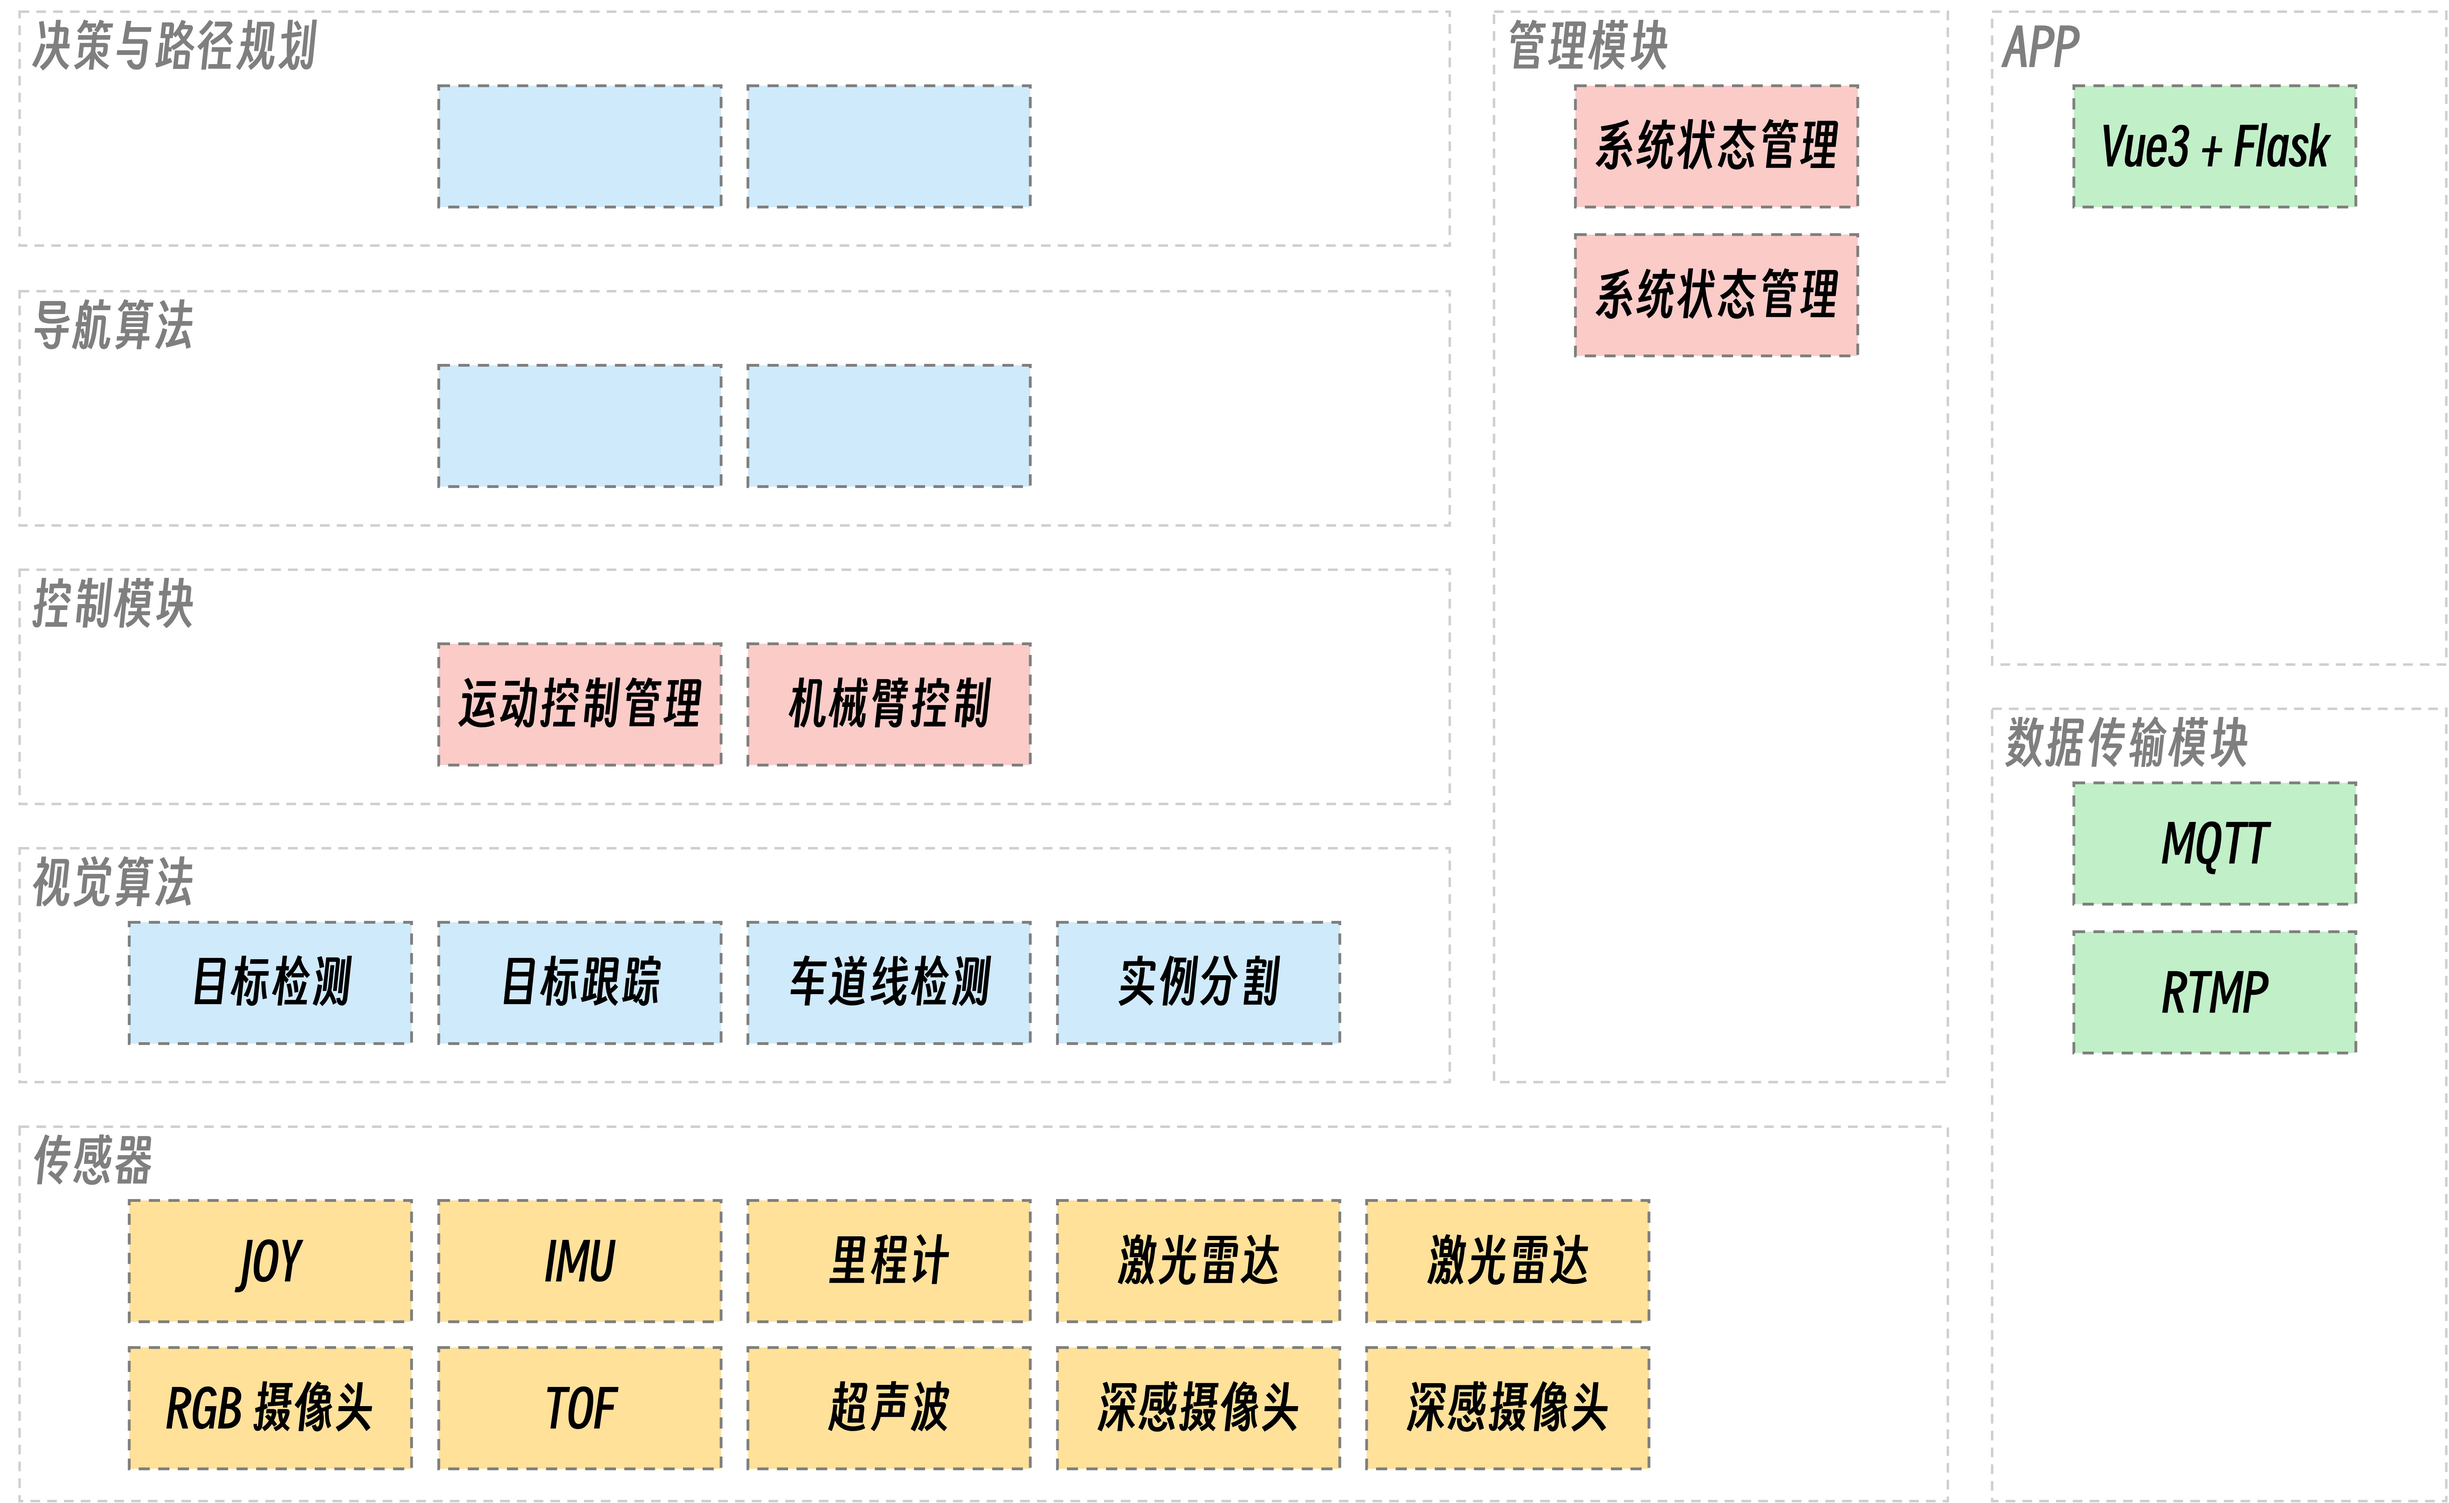
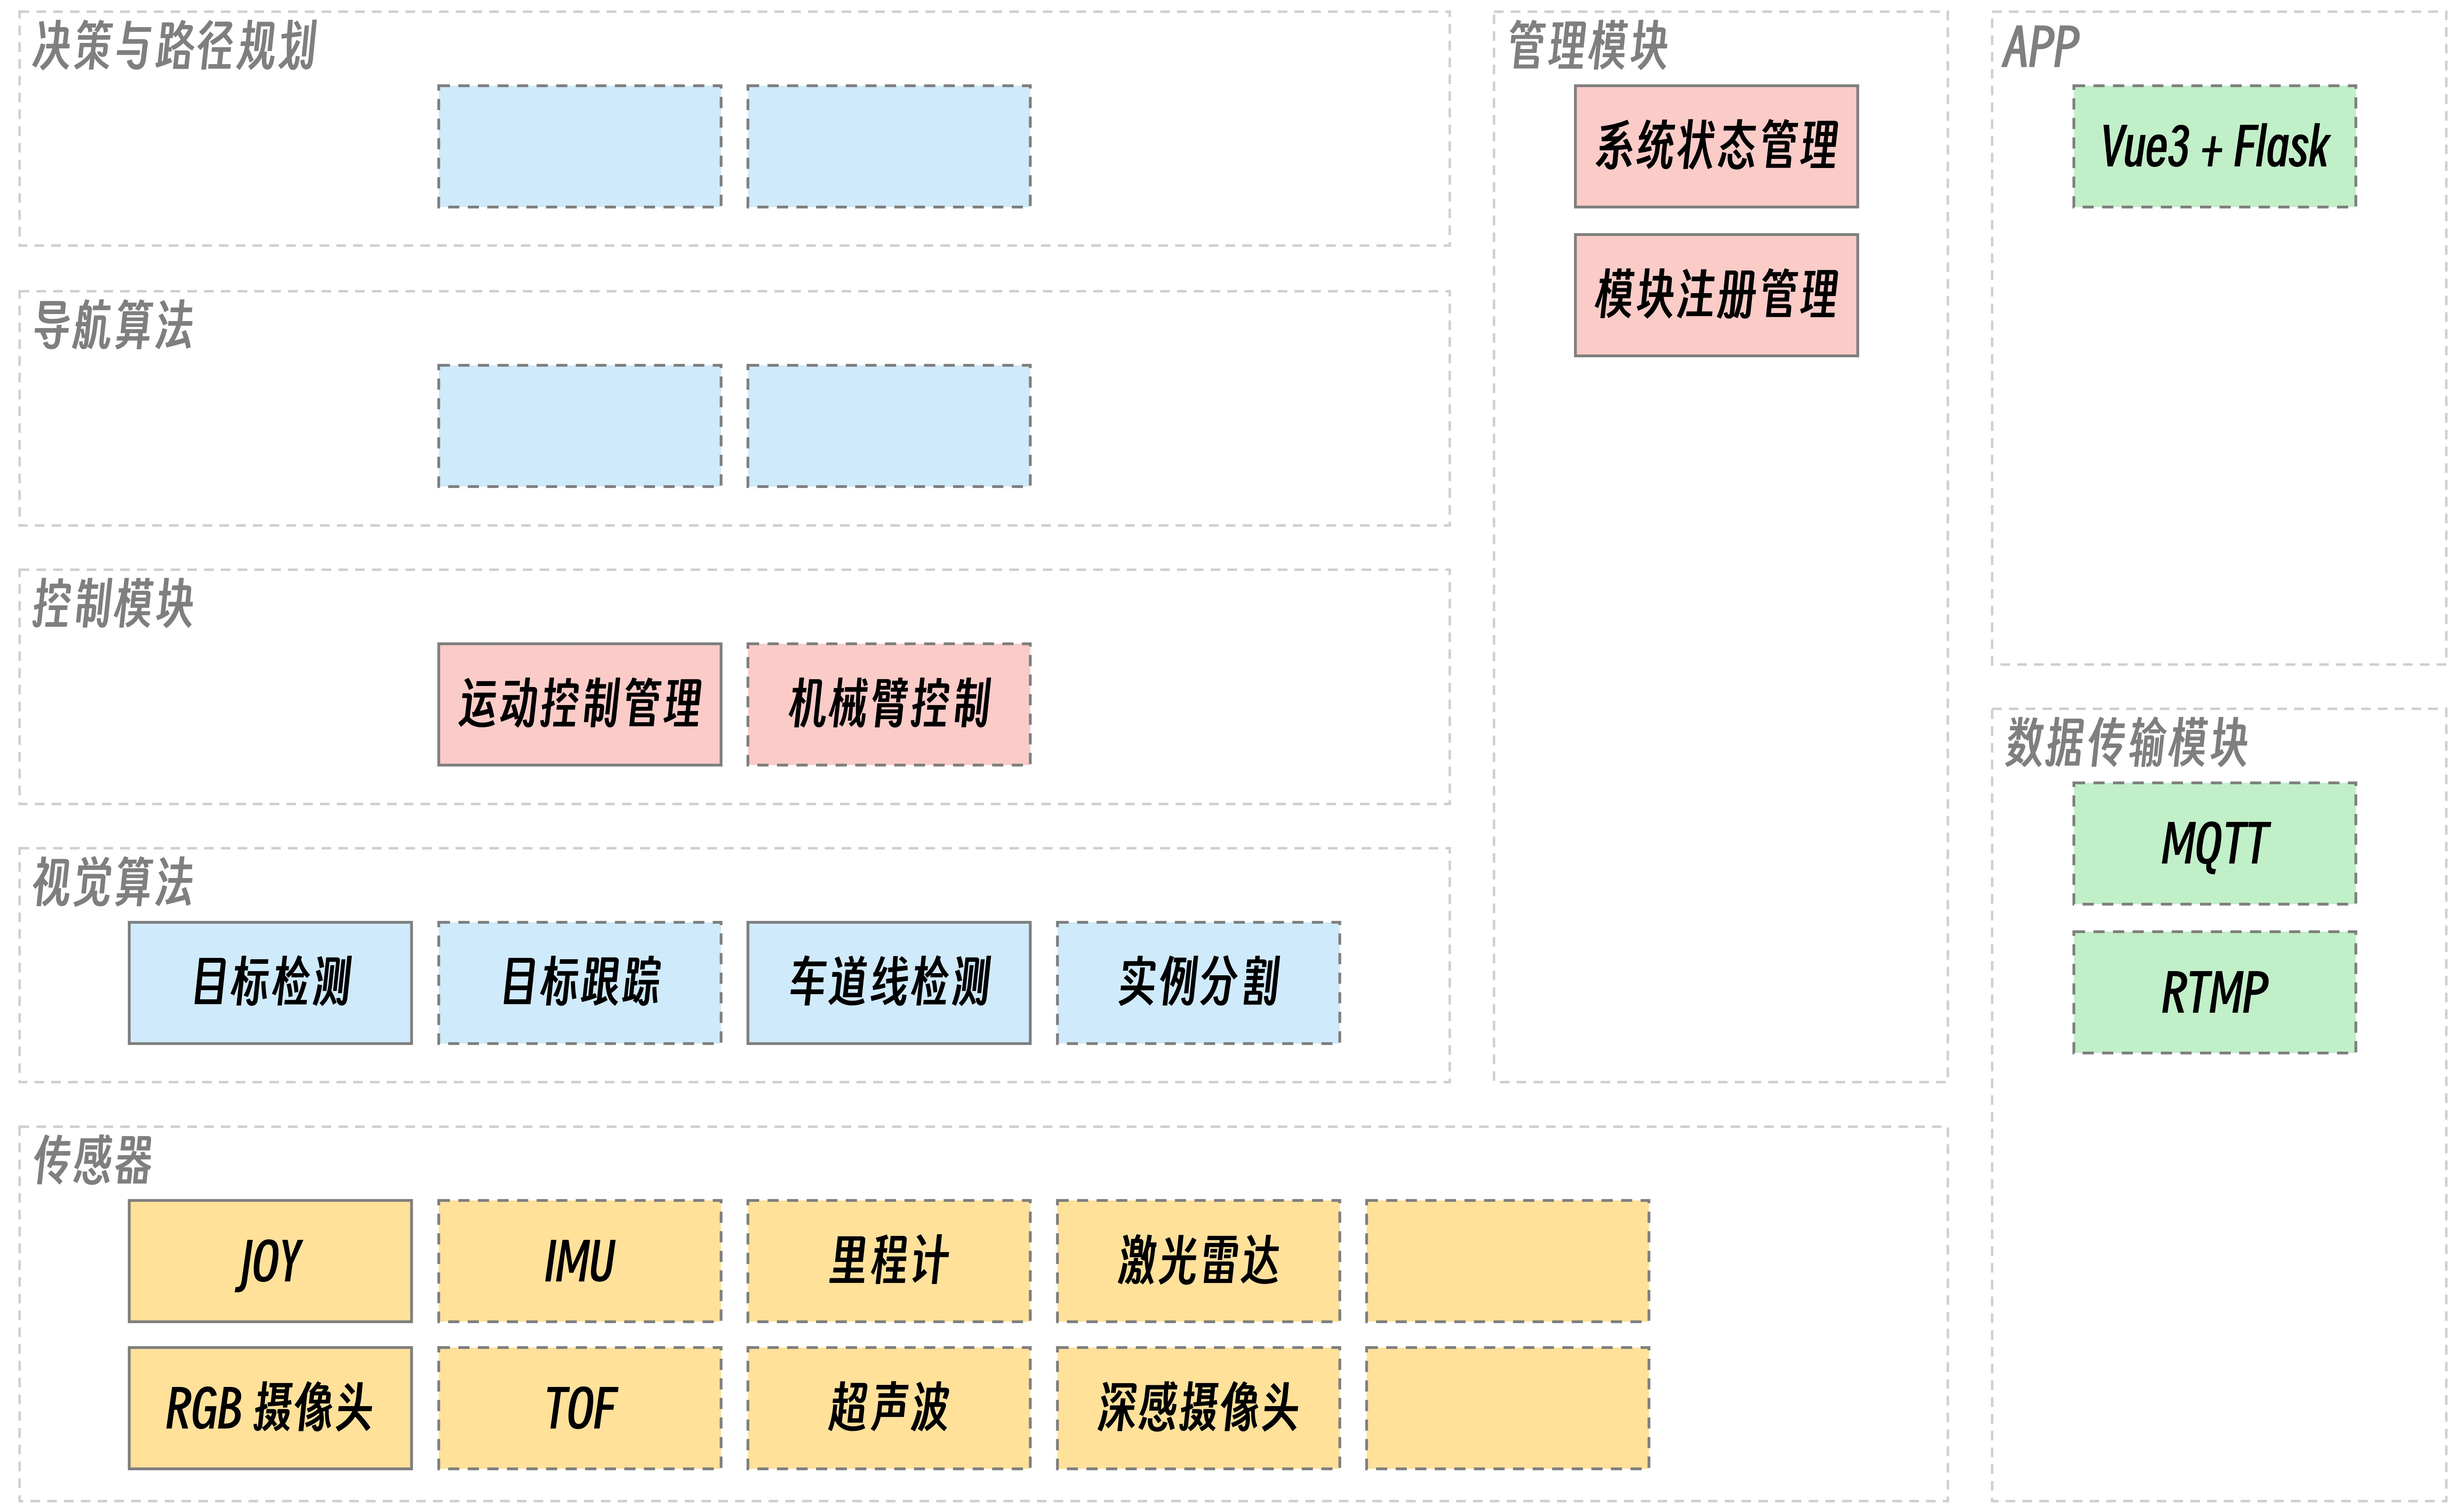
📝 docs: 更新文档

Changed region(s): [[0.5611, 0.9012, 0.6546, 0.9634], [0.6546, 0.1554, 0.7169, 0.2175], [0.5922, 0.808, 0.6546, 0.8701]]

diff --git a/docs/README.md b/docs/README.md
@@ -2,24 +2,39 @@
 
 ## 项目结构
 
+![系统架构](./images/system-architecture.jpg)
+
 该项目的 ROS2 工作空间 `modules` ，功能结构分组及其所包含的功能包如下:
 - **common**: 通用功能模块。包括全局的系统状态码定义、通用的工具函数等
-  - system_state: 系统状态码和错误码的全局定义
-  - utils: 通用工具函数 (未开发)
+  - 🔄 system_state: 系统状态码、错误码的全局定义，模块的注册序号，话题、服务、参数的全局定义
+  - 💠 utils: 通用工具函数
 - **interfaces**: 数据接口。 包括各个模块之间的数据接口、消息结构定义
+  - ✅ state_interfaces: 系统状态接口和服务接口
 - **controller**: 系统控制模块。包括底盘控制、机械臂控制等
-  - [motion_manager](./modules/controller/motion_manager.md): 运动控制模块
+  - 🔄 [motion_manager](./modules/controller/motion_manager.md): 运动控制模块
 - **manager**: 系统管理模块。包括系统状态管理、任务管理等
+  - **launch**: ROS2 启动文件
+  - ✅ [system_manager](./modules/manager/system_manager.md): 系统状态管理模块
+  - ✅ [task_manager](./modules/manager/system_manager.md): 任务管理模块
 - **data_transmission**: 数据传输模块。包括串口通信、网络通信等
-  - [dt_mqtt](./modules/data_transmission/dt_mqtt.md): MQTT 通信模块
-  - [dt_rtmp](./modules/data_transmission/dt_rtmp.md): 视频推流模块，RTMP 协议
+  - 🔄 [dt_mqtt](./modules/data_transmission/dt_mqtt.md): MQTT 通信模块
+  - 🚧 [dt_rtmp](./modules/data_transmission/dt_rtmp.md): 视频推流模块，RTMP 协议
 - **sensors**: 传感器模块。包括各种传感器的驱动、数据处理等
+  - 🔄 sensor_joy: 手柄控制模块
+  - 🔄 sensor_uwb: UWB 定位模块
 - **vision**: 视觉算法模块。包括各种视觉算法的实现
+  - ✅ vision_lanedet: 车道线检测算法
+  - 🚧 vision_objdet: 目标检测算法
+  - 💠 vision_objtrack: 目标检测算法
 - **navigation**: 导航模块 (未开发)
 - **app**: 应用程序
-- **launch**: ROS2 启动文件
+  - 💠 app_web: web 端控制面板 (Vue3 + flask)
 
-![系统架构](./images/system-architecture.jpg)
+
+> ✅ 开发完成, 🔄 测试中, 🚧 开发中, 🐛 修复中, ⛔ 已下线, 💠 计划开发
+
+
+
 
 ## 分支管理
 
